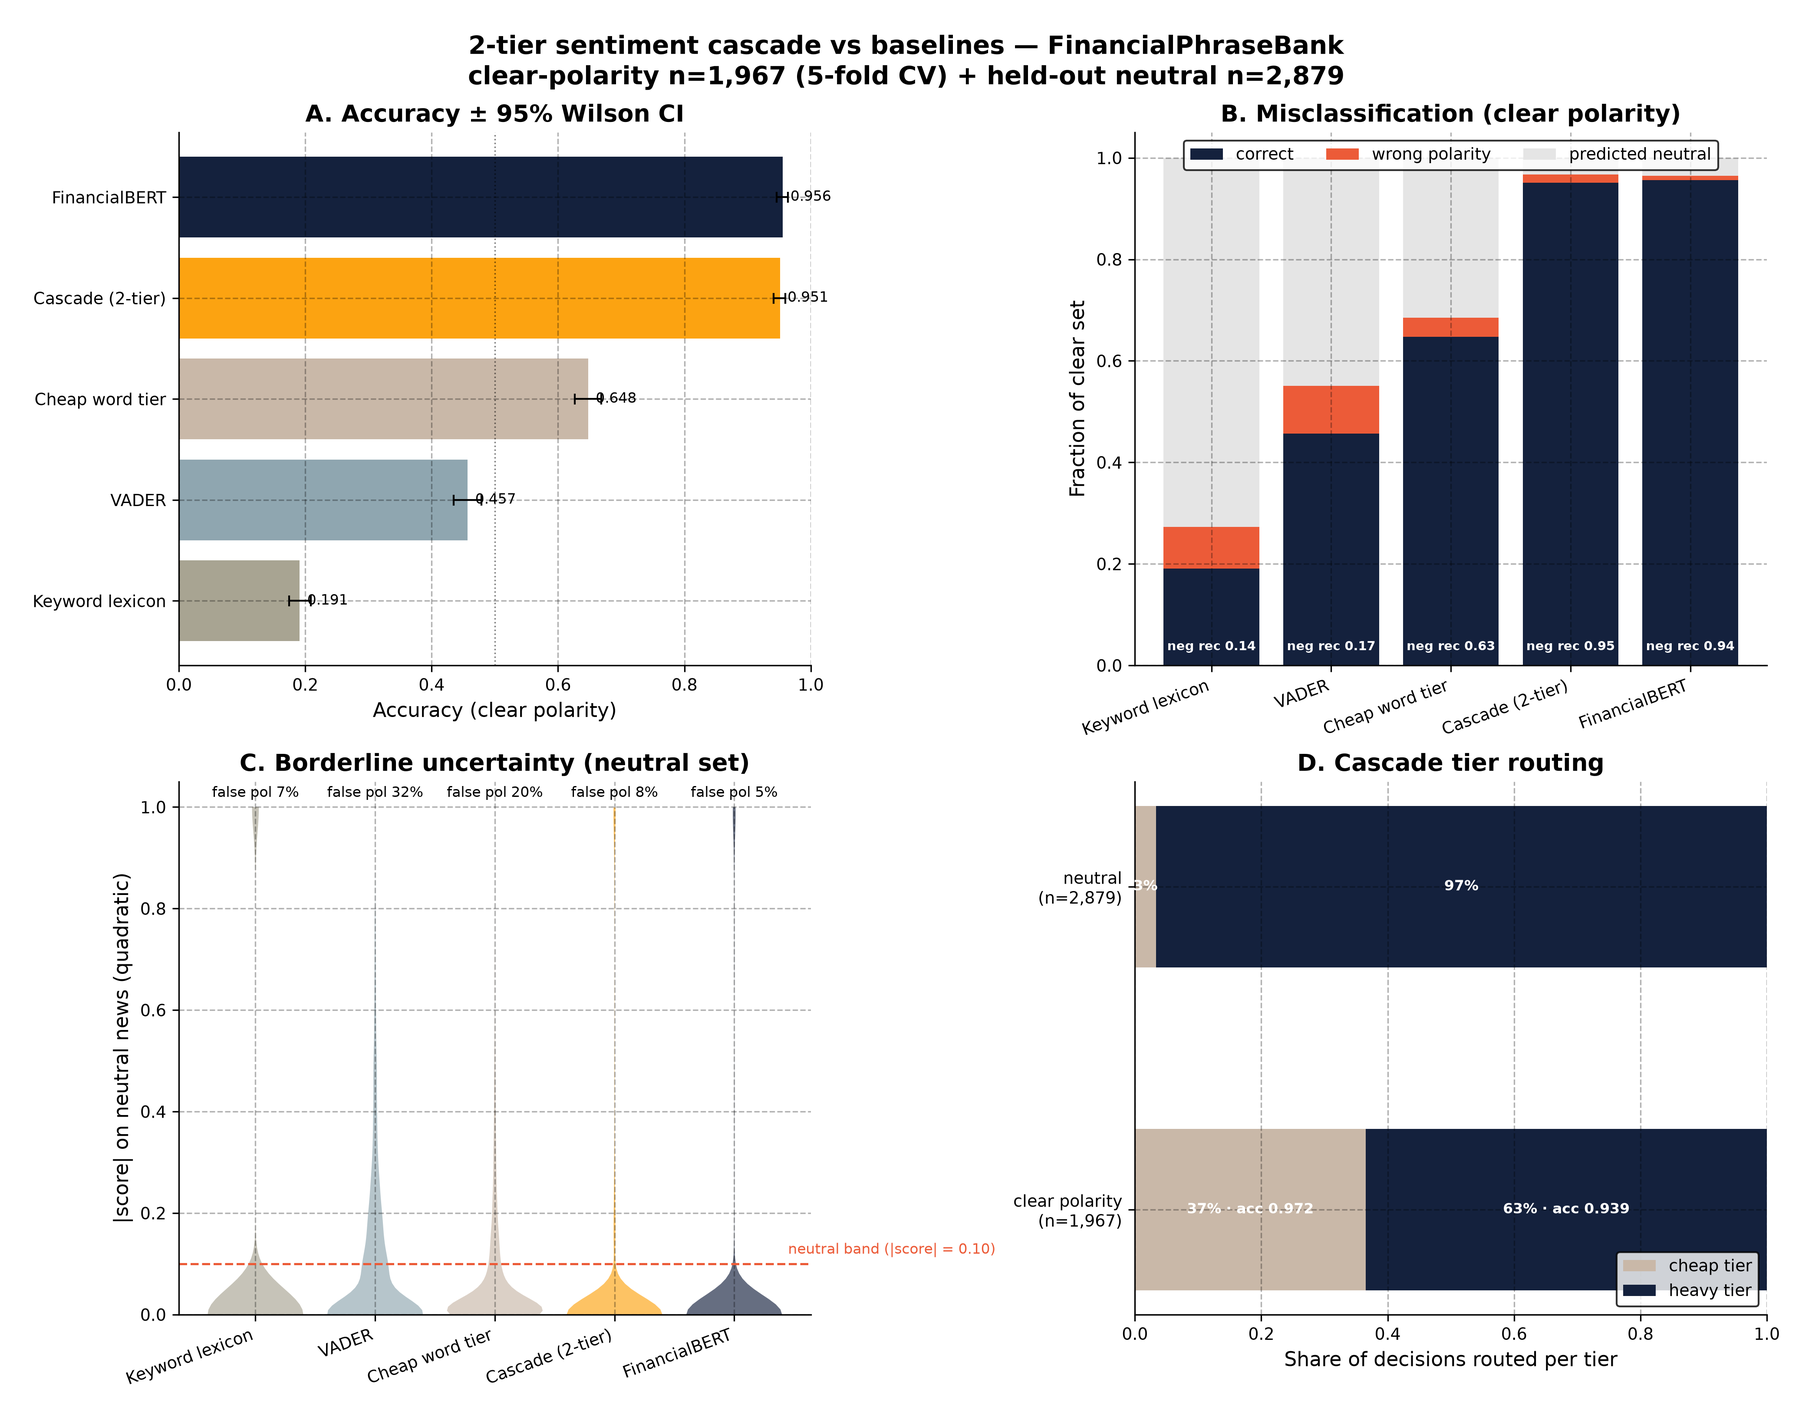
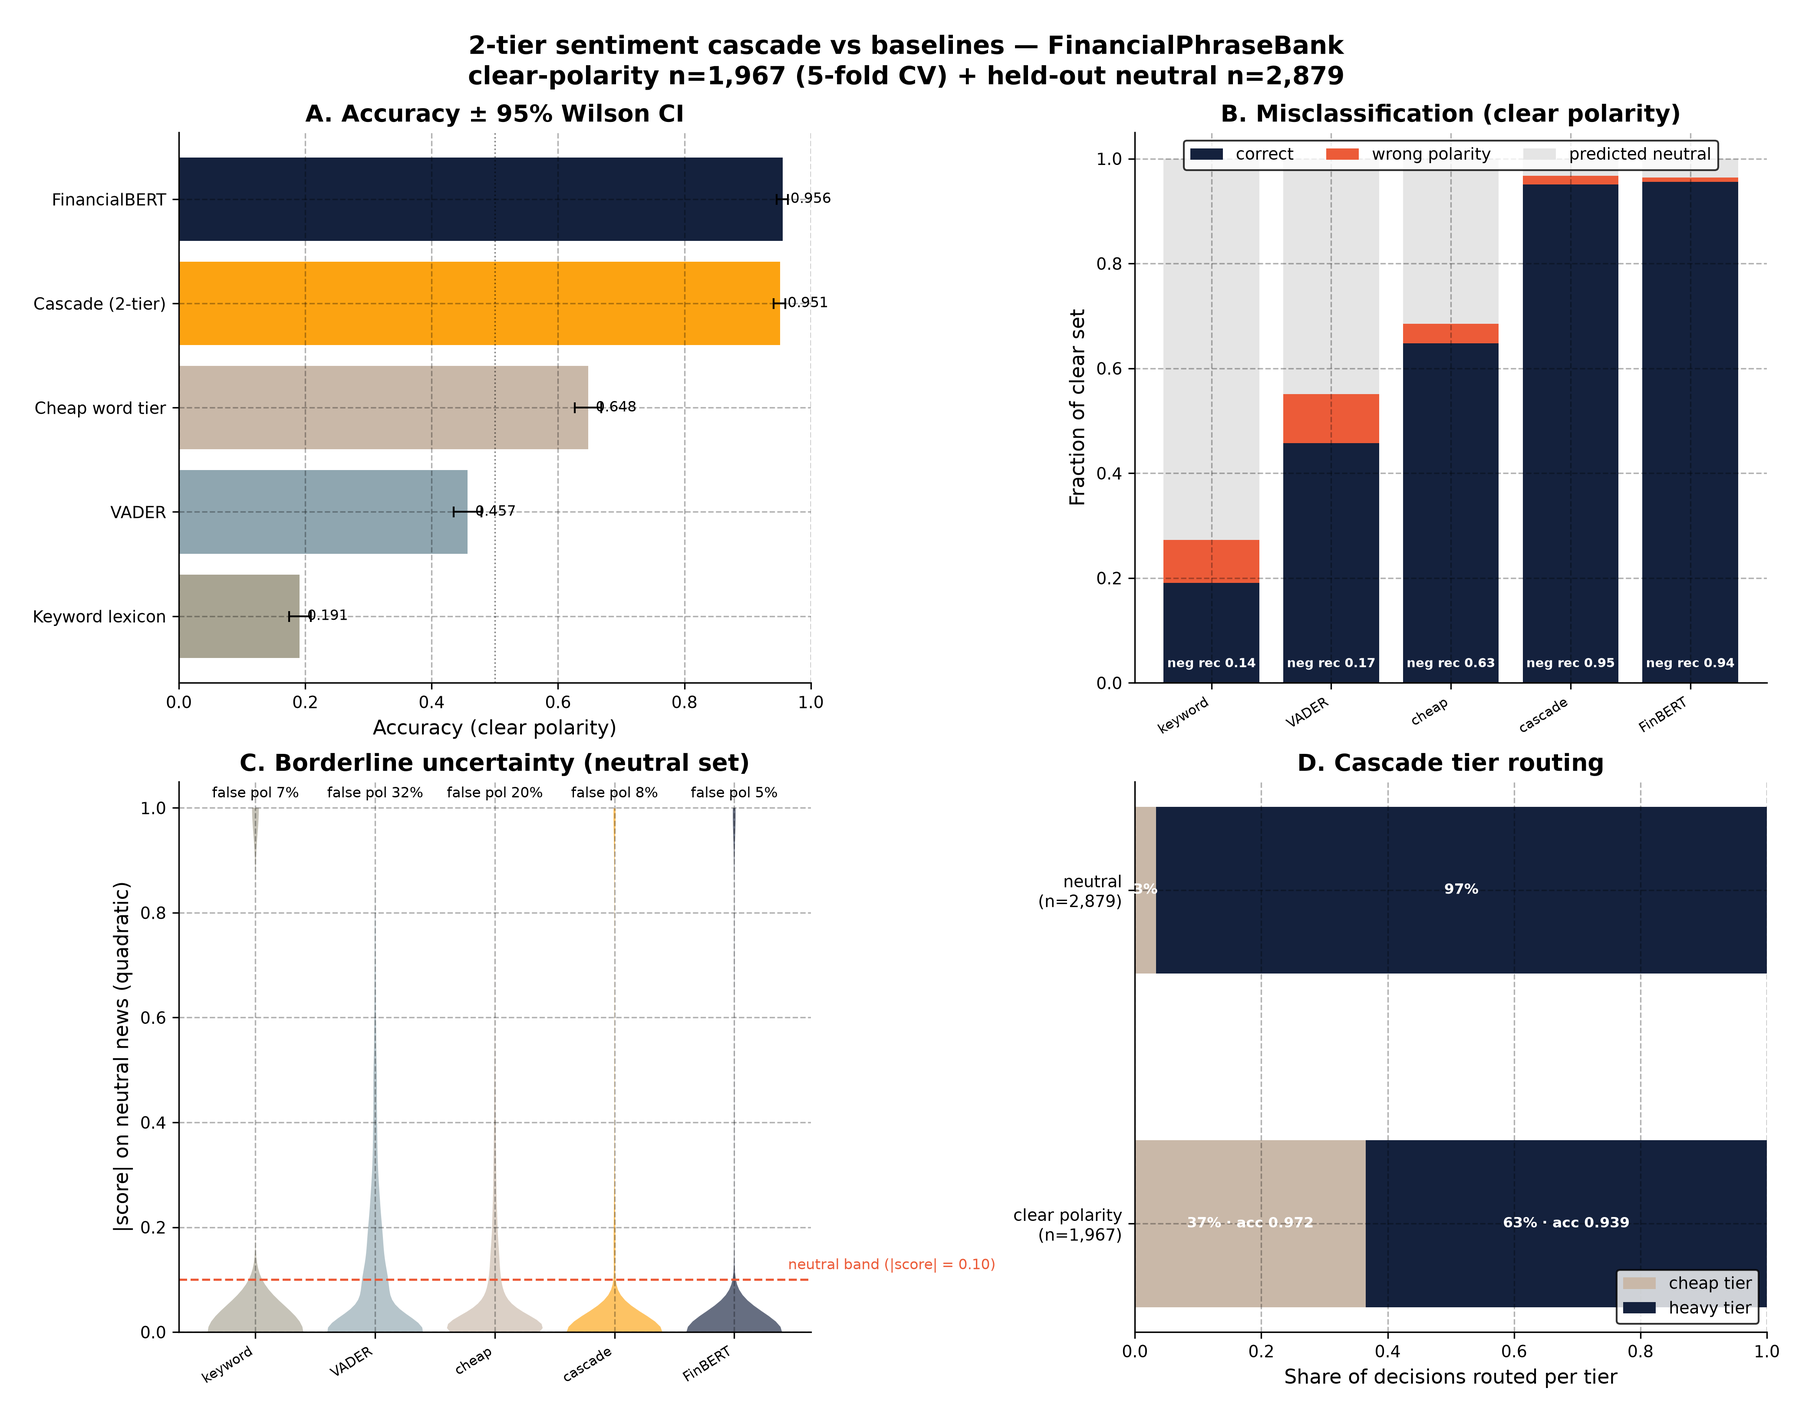
Fix text collisions in every figure; add reproducible overlap gate; extend audit with baseline/leak checks
Figures (all 15 now verified overlap-free via bbox collision scan):
- general_news_eval: Panel B method-name tick labels collided (IoU 0.5-1.0);
  replaced with short labels + 32deg rotation; Panel A adds the majority-class
  baseline line (0.616) disclosed in the previous pass.
- cascade_sentiment_eval: same tick-label collision in Panels B and C fixed
  with short labels + steeper rotation.
- family_ablation, word_level_correlations: negative-bar value labels (ha=right)
  bled past the axes into y-tick labels; now ha=left with a _pad_xlim_for_texts
  helper that measures text extent and grows the x-limits so nothing clips.
- single_family: value labels moved inside the bars to clear the legend.
- feature_heatmap: the separate 'r=...' artist overlapped every row label
  (IoU 0.79); r values folded into the y-tick labels.
- shap_waterfall: SHAP's own waterfall layout painted 'value = feature' text
  on top of its tick labels (96+ collisions); replaced with a hand-drawn
  matplotlib waterfall with controlled label placement.
- New src/check_figure_overlaps.py regenerates every figure and fails on any
  text-text bbox overlap (threshold 2 px) - the quality gate.

robustness_analysis.py additions (all numbers already in the docs, now
reproducible):
- majority-class baseline (0.6160) for the general clear set
- leak-adjusted headline dropping NewsMTSC dev rows 268/308: 0.6210 vs 0.5778,
  +4.31 pts, same 31/3 discordant pairs - the 2-sentence training overlap
[…]

diff --git a/src/figures.py b/src/figures.py
@@ -39,6 +39,32 @@ COLORS = {
 }
 
 
+def _pad_xlim_for_texts(ax, texts, edge_pad_px: float = 6.0) -> None:
+    """Expand the x-limits so out-of-axis value labels are never clipped.
+
+    Text artists placed past the data extrema (e.g. bar value labels anchored
+    at a bar tip) are not accounted for by matplotlib's autoscale, so they can
+    bleed past the axes edge and collide with tick labels. Draw once, measure
+    the overshoot in pixels, and grow the x-limits accordingly.
+    """
+    fig = ax.figure
+    fig.canvas.draw()
+    renderer = fig.canvas.get_renderer()
+    axbox = ax.get_window_extent(renderer=renderer)
+    lo, hi = ax.get_xlim()
+    need_lo = need_hi = 0.0
+    for t in texts:
+        e = t.get_window_extent(renderer=renderer)
+        if e.x0 < axbox.x0 + edge_pad_px:
+            need_lo = max(need_lo, axbox.x0 - e.x0 + edge_pad_px)
+        if e.x1 > axbox.x1 - edge_pad_px:
+            need_hi = max(need_hi, e.x1 - axbox.x1 + edge_pad_px)
+    ddx_lo = (hi - lo) * need_lo / axbox.width
+    ddx_hi = (hi - lo) * need_hi / axbox.width
+    if ddx_lo > 0 or ddx_hi > 0:
+        ax.set_xlim(lo - ddx_lo, hi + ddx_hi)
+
+
 # ---- 1. Headline summary figure ----
 def plot_headline_summary(out_path: Path) -> None:
     """One-glance figure: CV accuracy vs class-prior baseline + null distribution.
@@ -163,8 +189,8 @@ def plot_word_level_correlations(out_path: Path) -> None:
                  f"Green = significant at Bonferroni α = 0.05/68 ≈ 7.4e-4")
     for i, (bar, row) in enumerate(zip(bars, df.itertuples())):
         ax.text(row.r + (0.001 if row.r > 0 else -0.001), i,
-                f" {row.r:+.3f}", va="center",
-                ha="left" if row.r > 0 else "right", fontsize=9)
+                f" {row.r:+.3f}", va="center", ha="left", fontsize=9)
+    _pad_xlim_for_texts(ax, [t for t in ax.texts])
     fig.savefig(out_path, dpi=300)
     plt.close(fig)
     print(f"  Wrote {out_path.name}")
@@ -188,11 +214,10 @@ def plot_family_ablation(out_path: Path) -> None:
     ax.set_title("Leave-one-family-out ablation\n"
                  "Red = removing hurts; Green = removing helps (overfitting)")
     for bar, delta, acc in zip(bars, df["delta"], df["accuracy_mean"]):
-        ax.text(delta + (0.001 if delta >= 0 else -0.001),
-                bar.get_y() + bar.get_height()/2,
+        ax.text(delta + 0.001, bar.get_y() + bar.get_height()/2,
                 f" {delta:+.4f}  (acc={acc:.3f})",
-                va="center",
-                ha="left" if delta >= 0 else "right", fontsize=8.5)
+                va="center", ha="left", fontsize=8.5)
+    _pad_xlim_for_texts(ax, [t for t in ax.texts])
     fig.savefig(out_path, dpi=300)
     plt.close(fig)
     print(f"  Wrote {out_path.name}")
@@ -214,8 +239,8 @@ def plot_single_family(out_path: Path) -> None:
     ax.set_title("Single-family performance: how well does each feature family alone classify sentiment?\n"
                  "Highlighted: spectral (DFT) family — the strongest single signal")
     for bar, acc, n in zip(bars, df["accuracy_mean"], df["n_features"]):
-        ax.text(acc + 0.001, bar.get_y() + bar.get_height()/2,
-                f" {acc:.3f}  (n={n})", va="center", fontsize=9)
+        ax.text(acc / 2, bar.get_y() + bar.get_height()/2,
+                f"{acc:.3f}\n(n={n})", va="center", ha="center", fontsize=8.5)
     ax.legend(loc="lower right")
     fig.savefig(out_path, dpi=300)
     plt.close(fig)
@@ -353,10 +378,11 @@ def plot_feature_heatmap(out_path: Path) -> None:
                  "Red = feature is higher in low-valence words; Blue = higher in high-valence words")
     cbar = fig.colorbar(im, ax=ax, fraction=0.04, pad=0.04)
     cbar.set_label("Z-score (per feature)", fontsize=9)
-    # Annotate with the raw r value
-    for i, f in enumerate(top_features):
-        r = corr_df[corr_df["feature"] == f]["r"].iloc[0]
-        ax.text(-0.5, i, f"r={r:+.3f}", ha="right", va="center", fontsize=7.5, color="black")
+    # Annotate with the raw r value, folded into the row labels so it can never
+    # collide with the tick text (a separate left-side artist did).
+    r_by_feat = {row.feature: row.r for row in corr_df.itertuples()}
+    ax.set_yticklabels([f"{f}  (r={r_by_feat[f]:+.3f})" for f in top_features],
+                       fontsize=9)
     fig.savefig(out_path, dpi=300)
     plt.close(fig)
     print(f"  Wrote {out_path.name}")

diff --git a/src/visualise.py b/src/visualise.py
@@ -292,15 +292,16 @@ def make_shap_bar(shap_values, feature_names, n_top=30):
 # ══════════════════════════════════════════════════════════════════════════════
 
 def make_shap_waterfall(shap_vals, X_sample, feature_names, explainer,
-                        pos_idx=0, neg_idx=None):
+                        pos_idx=0, neg_idx=None, max_display=12):
     """
     Waterfall plots for one positive and one negative prediction.
     Shows how each feature pushes the prediction toward or away from positive.
     Pass the same TreeExplainer used in main() so we get the correct expected_value.
-    """
-    import shap
-    from shap import Explanation
 
+    Drawn manually with matplotlib instead of ``shap.plots.waterfall``: SHAP's
+    internal layout places "value = feature" text over its own y-tick labels on
+    narrow axes, which cannot be repositioned from outside.
+    """
     short = {fn: fn[:28] for fn in feature_names}
     n_feats = len(feature_names)
 
@@ -314,17 +315,51 @@ def make_shap_waterfall(shap_vals, X_sample, feature_names, explainer,
     else:
         ev = float(ev)
 
-    fig, axes = plt.subplots(1, 2, figsize=(16, 5))
+    fig, axes = plt.subplots(1, 2, figsize=(22, 6))
 
     def _plot(idx, ax, label):
-        sv = shap_vals[idx, :n_feats].copy()
+        sv = shap_vals[idx, :n_feats].astype(float)
         dr = X_sample[idx, :n_feats]
-        exp = Explanation(values=sv, base_values=ev, data=dr,
-                          feature_names=[short[f] for f in feature_names])
-        plt.sca(ax)
-        shap.plots.waterfall(exp, show=False, max_display=15)
-        ax.set_title(f"Predicted: {label.upper()}", fontsize=10)
-        ax.tick_params(labelsize=7)
+        order = np.argsort(-np.abs(sv))
+        display = list(order[:max_display])
+        other_sv = 0.0
+        if len(order) > max_display:
+            other_sv = float(sv[order[max_display:]].sum())
+            display.append(-1)
+        rows = np.arange(len(display))
+        pos = float(ev)
+        y = len(display) - 1 - rows  # top-down order
+        for i, fi in enumerate(display):
+            if fi == -1:
+                val = other_sv
+                name = f"{len(order) - max_display} other features"
+            else:
+                val = float(sv[fi])
+                fn = short[feature_names[fi]]
+                dv = float(dr[fi]) if not np.isnan(dr[fi]) else np.nan
+                name = f"{fn} = {dv:g}" if not np.isnan(dv) else fn
+            color = "#B04040" if val >= 0 else "#4A6FA5"
+            ypos = y[i]
+            ax.annotate(
+                "", xy=(pos + val, ypos), xytext=(pos, ypos),
+                arrowprops=dict(arrowstyle="-|>", lw=1.8, color=color),
+                annotation_clip=False,
+            )
+            ax.text(pos + val / 2, ypos + 0.28, name, ha="center", va="bottom",
+                    fontsize=8, color="#222222")
+            pos += val
+        ax.axvline(ev, color="#666666", ls="--", lw=0.9)
+        xmin = min(ev, pos) - 0.5
+        xmax = max(ev, pos) + 0.5
+        ax.text(xmin + 0.02, -0.55, f"base {ev:.2f}", ha="left", va="top",
+                fontsize=7.5, color="#666666")
+        ax.text(xmax - 0.02, -0.55, f"f(x) = {pos:.2f}", ha="right", va="top",
+                fontsize=9, fontweight="bold")
+        ax.set_xlim(xmin, xmax)
+        ax.set_ylim(-0.8, len(display) + 0.4)
+        ax.set_yticks([])
+        ax.set_xticks([])
+        ax.set_title(f"Predicted: {label.upper()}", fontsize=11, fontweight="bold")
 
     _plot(pos_idx, axes[0], "positive")
     _plot(neg_idx, axes[1], "negative")

diff --git a/src/check_figure_overlaps.py b/src/check_figure_overlaps.py
@@ -1,0 +1,94 @@
+"""Reproducible figure-quality gate: no two text artists may overlap.
+
+Regenerates every figure through its own module and, at savefig time, checks
+the window extents of all rendered text (labels, tick labels, titles, legend
+texts, annotations) for pairwise bounding-box collisions. Exits non-zero if any
+figure has an overlap above the threshold, so it can gate the pipeline.
+
+Run from the research repo root:
+    /home/a/esg-dashboard/.venv/bin/python -m src.check_figure_overlaps
+
+Threshold note: a pair counts as an overlap when both axes overlap by more than
+2 px in each direction (boxes of ordinary neighbouring labels touch without
+merging). Pure touching is allowed; merging is not.
+"""
+from __future__ import annotations
+
+import sys
+from pathlib import Path
+
+import matplotlib
+matplotlib.use("Agg")
+
+import matplotlib.figure
+
+REPO = Path(__file__).resolve().parent.parent
+sys.path.insert(0, str(REPO))
+
+MIN_OVERLAP_PX = 2.0
+failures: list[str] = []
+
+
+def _texts(ax):
+    out = list(ax.texts) + list(ax.get_xticklabels()) + list(ax.get_yticklabels())
+    out += [ax.title, ax.xaxis.label, ax.yaxis.label]
+    legend = ax.get_legend()
+    if legend is not None:
+        out += legend.get_texts()
+    return [t for t in out if t.get_text().strip()]
+
+
+def check(fig, out_path) -> None:
+    fig.canvas.draw()
+    try:
+        renderer = fig.canvas.get_renderer()
+    except AttributeError:
+        from matplotlib.backends.backend_agg import FigureCanvasAgg
+        renderer = FigureCanvasAgg(fig).get_renderer()
+    total = 0
+    for ax in fig.axes:
+        ts = _texts(ax)
+        for i in range(len(ts)):
+            for j in range(i + 1, len(ts)):
+                ea = ts[i].get_window_extent(renderer=renderer)
+                eb = ts[j].get_window_extent(renderer=renderer)
+                ix = min(ea.x1, eb.x1) - max(ea.x0, eb.x0)
+                iy = min(ea.y1, eb.y1) - max(ea.y0, eb.y0)
+                if ix > MIN_OVERLAP_PX and iy > MIN_OVERLAP_PX:
+                    total += 1
+                    print(f"  OVERLAP {ts[i].get_text()[:40]!r} x {ts[j].get_text()[:40]!r}")
+    status = "OK" if total == 0 else f"FAIL ({total} overlaps)"
+    print(f"{out_path}: {status}")
+    if total:
+        failures.append(str(out_path))
+
+
+def _wrap_and_run(module_name: str) -> None:
+    orig = matplotlib.figure.Figure.savefig
+
+    def checked(fig, *a, **k):
+        check(fig, a[0])
+        return orig(fig, *a, **k)
+
+    matplotlib.figure.Figure.savefig = checked
+    try:
+        __import__(module_name, fromlist=["main"]).main()
+    finally:
+        matplotlib.figure.Figure.savefig = orig
+
+
+def main() -> None:
+    for mod in ("src.figures", "src.figures_cascade", "src.figures_general"):
+        print(f"== {mod} ==")
+        _wrap_and_run(mod)
+    print("== src.visualise ==")
+    _wrap_and_run("src.visualise")
+    print()
+    if failures:
+        print("FIGURE QUALITY GATE FAILED:", *failures, sep="\n  ")
+        sys.exit(1)
+    print("FIGURE QUALITY GATE PASSED: no text overlaps in any figure.")
+
+
+if __name__ == "__main__":
+    main()

diff --git a/src/robustness_analysis.py b/src/robustness_analysis.py
@@ -148,6 +148,44 @@ def main() -> None:
         lo, hi = wilson_ci(len(yc), kk)
         print(f"  {k:20s} {kk / len(yc):.4f} [{lo:.4f}, {hi:.4f}]")
 
+    from collections import Counter
+    cnt = Counter(yc.tolist())
+    maj = max(cnt.values()) / len(yc)
+    print(f"\n== CLEAR SET class balance ==")
+    print(f"  {dict(cnt)}  majority-class baseline = {maj:.4f} "
+          f"(heavy_gen {np.mean(methods_c['heavy_gen'] == yc):.4f} is "
+          f"{'above' if np.mean(methods_c['heavy_gen'] == yc) > maj else 'BELOW'} it)")
+
+    # Leak-adjusted headline: drop the two overlapped clear-polarity NewsMTSC
+    # devtest sentences that also appear in the news cheap tier's training split
+    # (dev rows 268 and 308).
+    clean = [r for r in clear if int(r["id"]) not in (268, 308)]
+    yl = np.array([int(r["true"]) for r in clean])
+    lc = _cascade_labels(clean, "cascade_news_gen_label")
+    lh = _labels(clean, "heavy_gen_v")
+    bb, cc = paired_counts(yl, lc, lh)
+    print(f"\n== leak-adjusted headline (drop dev rows 268, 308) ==")
+    print(f"  n = {len(yl)}: cascade_news {np.mean(lc == yl):.4f} vs heavy_gen "
+          f"{np.mean(lh == yl):.4f} (gap {100*(np.mean(lc == yl) - np.mean(lh == yl)):+.2f} pts); "
+          f"b/c = {bb}/{cc} p = {mcnemar_p(bb, cc):.3g}")
+
+    # Per-class composition of the headline discordant pairs.
+    d = [(i, int(r["true"])) for i, r in enumerate(clear)
+         if methods_c["cascade_news_gen"][i] != methods_c["heavy_gen"][i]]
+    cwin = [t for _, t in d if methods_c["cascade_news_gen"][_] == t]
+    hwin = [t for _, t in d if methods_c["heavy_gen"][_] == t]
+    print(f"\n== headline discordant pairs by true class ==")
+    print(f"  cascade wins {len(cwin)} ({dict(Counter(cwin))}), "
+          f"heavy wins {len(hwin)} ({dict(Counter(hwin))}); "
+          f"heavy_gen per-class acc "
+          f"{ {0: round(float(np.mean(methods_c['heavy_gen'][yc == 0] == 0)), 4),
+               2: round(float(np.mean(methods_c['heavy_gen'][yc == 2] == 2)), 4)} }")
+
+    # VADER fallback never fires in this eval.
+    print(f"\n== VADER fallback usage ==")
+    print(f"  cascade_news_gen tier == vader on full dev: "
+          f"{sum(1 for r in rows if r['cascade_news_gen_tier'] == 'vader')} / {len(rows)}")
+
     pairs = [
         ("cascade_news_gen", "heavy_gen"),
         ("cascade_fpb_gen", "heavy_gen"),

diff --git a/src/figures_general.py b/src/figures_general.py
@@ -101,9 +101,22 @@ def main() -> None:
                 va="center", ha="left", fontsize=8)
     ax.axvline(0.5, color=PALETTE["black"], ls=":", lw=0.8, alpha=0.5)
     ax.text(0.505, len(METHODS) - 0.4, "chance", fontsize=7, color=PALETTE["black"], alpha=0.6)
+    ax.axvline(0.616, color=PALETTE["black"], ls="--", lw=0.9, alpha=0.7)
+    ax.text(0.622, len(METHODS) - 0.4, "majority class\n(401 neg / 250 pos)", fontsize=6.5,
+            color=PALETTE["black"], alpha=0.7, va="top", ha="left")
 
     # ---- Panel B: misclassification breakdown (clear set) ----
     ax = axes[0, 1]
+    short = {
+        "keyword": "keyword",
+        "vader": "VADER",
+        "cheap_fpb": "cheap-FPB",
+        "cheap_news": "cheap-news",
+        "cascade_fpb_gen": "cas-FPB",
+        "cascade_news_gen": "cas-news",
+        "heavy_fin": "FinBERT",
+        "heavy_gen": "gen-BERT",
+    }
     x = np.arange(len(METHODS))
     correct, wrong_pol, neut_miss = [], [], []
     for m in METHODS:
@@ -125,11 +138,12 @@ def main() -> None:
     ax.bar(x, neut_miss, bottom=np.array(correct) + np.array(wrong_pol),
            color=PALETTE["alabaster"], label="predicted neutral")
     ax.set_xticks(x)
-    ax.set_xticklabels([METHOD_LABELS[m] for m in METHODS], rotation=20, ha="right")
-    ax.set_ylim(0, 1.05)
+    ax.set_xticklabels([short[m] for m in METHODS], rotation=32, ha="right", fontsize=7.5)
+    ax.set_ylim(0, 1.08)
     ax.set_ylabel("Fraction of clear set")
     ax.set_title("B. Misclassification (clear polarity)", fontweight="bold")
-    ax.legend(loc="upper center", ncol=3, frameon=True)
+    ax.legend(loc="upper center", ncol=3, frameon=True, fontsize=8,
+              bbox_to_anchor=(0.5, 1.02))
 
     # ---- Panel C: cascade tier routing (news-cheap x general heavy) ----
     ax = axes[1, 0]

diff --git a/src/figures_cascade.py b/src/figures_cascade.py
@@ -45,6 +45,13 @@ METHOD_COLORS = {
     "cascade": PALETTE["orange"],
     "heavy": PALETTE["prussian"],
 }
+SHORT_LABELS = {
+    "keyword": "keyword",
+    "vader": "VADER",
+    "cheap": "cheap",
+    "cascade": "cascade",
+    "heavy": "FinBERT",
+}
 BAND = 0.1  # neutral band on the quadratic score (matches engine default)
 CHEAP_THRESHOLD = 0.6  # cascade routing threshold (matches engine default)
 CODE_LABEL = {0: "negative", 1: "neutral", 2: "positive"}
@@ -136,7 +143,7 @@ def main() -> None:
     ax.bar(x, neut_miss, bottom=np.array(correct) + np.array(wrong_pol),
            color=PALETTE["alabaster"], label="predicted neutral")
     ax.set_xticks(x)
-    ax.set_xticklabels([METHOD_LABELS[m] for m in METHODS], rotation=20, ha="right")
+    ax.set_xticklabels([SHORT_LABELS[m] for m in METHODS], rotation=32, ha="right", fontsize=7.5)
     ax.set_ylim(0, 1.05)
     ax.set_ylabel("Fraction of clear set")
     ax.set_title("B. Misclassification (clear polarity)", fontweight="bold")
@@ -158,7 +165,7 @@ def main() -> None:
     band_label = f"neutral band (|score| = {BAND:.2f})"
     ax.text(4.45, BAND + 0.02, band_label, fontsize=8, color=PALETTE_WARM["accent"])
     ax.set_xticks(positions)
-    ax.set_xticklabels([METHOD_LABELS[m] for m in METHODS], rotation=20, ha="right")
+    ax.set_xticklabels([SHORT_LABELS[m] for m in METHODS], rotation=32, ha="right", fontsize=7.5)
     ax.set_ylabel("|score| on neutral news (quadratic)")
     ax.set_ylim(0, 1.05)
     ax.set_title("C. Borderline uncertainty (neutral set)", fontweight="bold")
